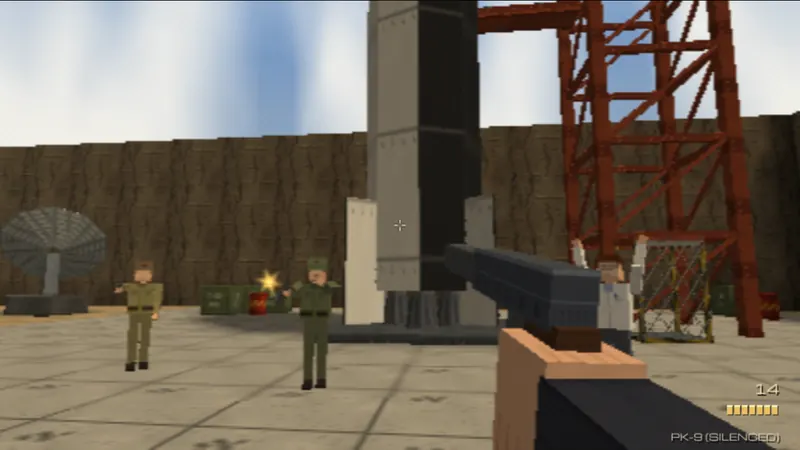
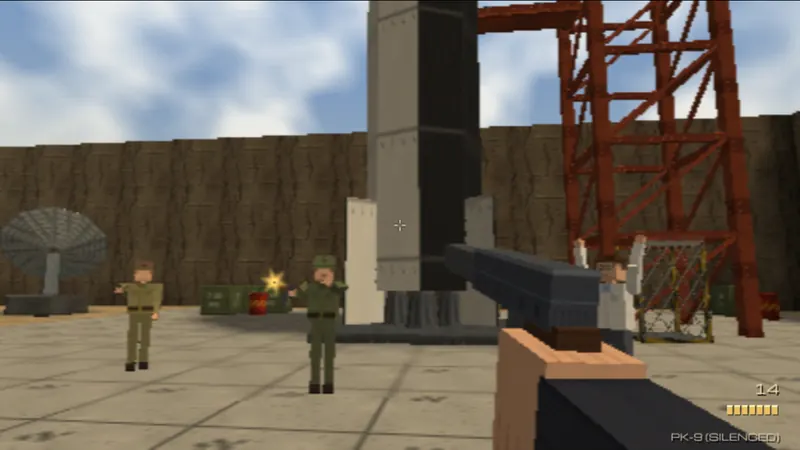
Apogee: projected cloud layer, wary guards re-engage, wider classic auto-aim
Guards in the alert state now fight when they see you again. Guards no longer
think during the mission intro. Kessler taunts you when he first sees you.

Claude-Session: https://claude.ai/code/session_01VK9dzxc8b6P7gghBf624HA

diff --git a/apogee/index.html b/apogee/index.html
@@ -398,11 +398,6 @@ function paintTextures() {
     for (let x = 5; x < 28; x += 4) p.vline(x, 4, 24, C(0xe0dcc8));
     p.bevel(2, 2, 28, 28, 1.3, 0.6);
   });
-  tex('lamp_cage', (p) => { // a bulkhead lamp for outdoor walls and the station
-    p.fill(C(0x404040)); p.disc(16, 16, 12, C(0xfff2c0)); p.disc(16, 16, 7, C(0xffffff));
-    for (let k = 4; k < 30; k += 6) { p.hline(4, k, 24, C(0x303030)); }
-    p.ring(16, 16, 12, 14, C(0x2a2a2a));
-  });
   // ---- outdoors (steppe launch site)
   tex('sand', (p) => { p.fill(C(0xa89470)).grain(0.35, 4).grain(0.2, 16, 9).speck(60, C(0x7c6a4c), 0.6).speck(30, C(0xd0bf98), 0.6); });
   tex('grass', (p) => {
@@ -553,7 +548,6 @@ function paintTextures() {
   });
   tex('floor_st', (p) => { p.fill(C(0x3c4046)).grain(0.12, 4); for (let y = 2; y < 32; y += 6) p.rect(0, y, 32, 2, C(0x52575e)); p.hline(0, 0, 32, C(0x26292c)); p.vline(0, 0, 32, C(0x26292c)); });
   tex('ceil_st', (p) => { p.fill(C(0xbab8b0)).grain(0.08, 4); p.rect(4, 4, 24, 24, C(0xcac8c0)); p.bevel(4, 4, 24, 24, 1.15, 0.75); p.rect(10, 14, 12, 4, C(0x707070)); });
-  tex('earthwin', (p) => { p.fill(C(0x101820)); }); // used for flat backing
   // ---- lunar base
   tex('moon_wall', (p) => {
     p.fill(C(0xb8ab92)).grain(0.12, 4);
@@ -2904,10 +2898,11 @@ function spot(a) {
     if (d < 9 && a.state !== 'surrender') { a.state = 'surrender'; a.action = 'surrender'; a.waitT = 1e9; }
     return;
   }
-  if (a.state === 'idle' || a.state === 'patrol' || a.state === 'search') {
-    const fresh = a.state !== 'search';
+  if (a.state === 'idle' || a.state === 'patrol' || a.state === 'search' || a.state === 'alert') {
+    const fresh = a.state === 'idle' || a.state === 'patrol';
     a.reactT = DIFF.reaction[G.diff] * (fresh ? 1 : 0.5);
     if (fresh) sfx('alert', a);
+    if (a.boss && !a.taunted) { a.taunted = true; hudMsg('KESSLER: "You are too late. HELIOS sees everything."', true); }
     if (a.alarmRunner && L.alarms.some((q) => !q.dead) && !(G.alarm && G.alarm.on)) a.state = 'alarm';
     else a.state = 'combat';
     // shout to friends nearby
@@ -3356,7 +3351,7 @@ function autoAimTarget(dir) {
     const dx = a.x - cp.x, dy = ty - cp.y, dz = a.z - cp.z, d = Math.hypot(dx, dz);
     if (d > 28 || d < 0.5) continue;
     const dyaw = Math.abs(angDiff(yaw0, Math.atan2(-dx, -dz))), dp = Math.abs(Math.atan2(dy, d) - pitch0);
-    const lim = Math.max(0.07, 0.6 / d);
+    const lim = Math.max(0.14, 1.0 / d);
     if (dyaw > lim || dp > 0.35) continue;
     if (!losClear(cp.x, cp.y, cp.z, a.x, ty, a.z)) continue;
     const s = dyaw * 3 + dp;
@@ -4288,9 +4283,16 @@ function buildSky(kind) {
     g.lit = (x, y) => { const t = clamp(y / 260, 0, 1); return mix3(hor, zen, Math.pow(t, 0.6)); };
     g.sphere(0, 0, 0, 400, 16, 10, () => TILE.white, 1, 1, true);
     add(g.mesh(MAT.sky), true, 0);
-    const c = new Geo(); c.tint = [1, 0.98, 0.94];
-    c.sphere(0, -40, 0, 380, 16, 5, () => TILE.clouds, 8, 2, true);
-    const cm = add(c.mesh(MAT.skyAlpha), true, 1); cm.userData.spin = 0.003;
+    // a flat cloud layer projected onto a dome: planar UVs foreshorten toward the horizon, where it fades into the haze
+    const c = new Geo(), R = 380, rings = 7, segs = 24;
+    c.lit = (x, y) => mix3(hor, [1, 0.99, 0.96], clamp((y - 8) / 110, 0, 1));
+    for (let j = 0; j < rings; j++) for (let i = 0; i < segs; i++) {
+      const e0 = j / rings * Math.PI / 2 * 0.95, e1 = (j + 1) / rings * Math.PI / 2 * 0.95, a0 = i / segs * TAU, a1 = (i + 1) / segs * TAU;
+      const P = (e, a) => [Math.cos(e) * Math.sin(a) * R, Math.sin(e) * R * 0.45, Math.cos(e) * Math.cos(a) * R];
+      const q = [P(e0, a0), P(e0, a1), P(e1, a1), P(e1, a0)];
+      c.quad(q[0], q[1], q[2], q[3], q.flatMap((v) => [v[0] / 140, v[2] / 140]), TILE.clouds, [0, -1, 0]);
+    }
+    const cm = add(c.mesh(MAT.skyAlpha), true, 1); cm.userData.spin = 0.004;
     // distant mountains: a ring of peaks fading into the haze
     const mg = new Geo(), R0 = 330, N = 36;
     mg.lit = (x, y) => mix3([0.42, 0.38, 0.33], hor, clamp(0.55 + y / 120, 0, 1));
@@ -4718,7 +4720,7 @@ function updateIntro(dt) {
 function step(dt) {
   G.time += dt;
   runTimers();
-  if (G.intro) { updateIntro(dt); updateActors(dt); updateDoors(dt); updateFx(dt); updateSky(dt); INPUT.pressed.clear(); return; }
+  if (G.intro) { updateIntro(dt); for (const a of G.actors) if (!a.dead) { a.t += dt; animateActor(a, dt); } updateDoors(dt); updateFx(dt); updateSky(dt); INPUT.pressed.clear(); return; }
   updatePlayer(dt);
   updateActors(dt);
   updateDoors(dt);
@@ -4873,7 +4875,7 @@ function installDebug() {
     },
     unlockAll() { G.unlockAll = true; return true; },
     audio() { initAudio(); const names = Object.keys(SFX); for (const n of names) sfx(n); for (const s of Object.keys(SONGS)) { stopMusic(); playMusic(s); scheduleMusic(); } playMusic('steppe'); return { ctx: !!AU.ctx, state: AU.ctx && AU.ctx.state, sfx: names.length, songs: Object.keys(SONGS).length }; },
-    f: { startIntro, applyVideoSettings, actorFire, muzzleFlashAt, G, L, OBJ, WEAPONS, MISSIONS, SET, SAVE, PROPS, TILE, camera, scene, renderer, rayWorld, findPath, damageActor, openDoor, explode, setState, toSelect, openWatch, closeWatch, showEnd, startMission, VIEW, UNI, MINES, PICKUPS, AU },
+    f: { autoAimTarget, playerFire, startIntro, applyVideoSettings, actorFire, muzzleFlashAt, G, L, OBJ, WEAPONS, MISSIONS, SET, SAVE, PROPS, TILE, camera, scene, renderer, rayWorld, findPath, damageActor, openDoor, explode, setState, toSelect, openWatch, closeWatch, showEnd, startMission, VIEW, UNI, MINES, PICKUPS, AU },
   };
   window.AP = AP;
 }

diff --git a/apogee/source/src/15_main.js b/apogee/source/src/15_main.js
@@ -24,7 +24,7 @@ function updateIntro(dt) {
 function step(dt) {
   G.time += dt;
   runTimers();
-  if (G.intro) { updateIntro(dt); updateActors(dt); updateDoors(dt); updateFx(dt); updateSky(dt); INPUT.pressed.clear(); return; }
+  if (G.intro) { updateIntro(dt); for (const a of G.actors) if (!a.dead) { a.t += dt; animateActor(a, dt); } updateDoors(dt); updateFx(dt); updateSky(dt); INPUT.pressed.clear(); return; }
   updatePlayer(dt);
   updateActors(dt);
   updateDoors(dt);
@@ -179,7 +179,7 @@ function installDebug() {
     },
     unlockAll() { G.unlockAll = true; return true; },
     audio() { initAudio(); const names = Object.keys(SFX); for (const n of names) sfx(n); for (const s of Object.keys(SONGS)) { stopMusic(); playMusic(s); scheduleMusic(); } playMusic('steppe'); return { ctx: !!AU.ctx, state: AU.ctx && AU.ctx.state, sfx: names.length, songs: Object.keys(SONGS).length }; },
-    f: { startIntro, applyVideoSettings, actorFire, muzzleFlashAt, G, L, OBJ, WEAPONS, MISSIONS, SET, SAVE, PROPS, TILE, camera, scene, renderer, rayWorld, findPath, damageActor, openDoor, explode, setState, toSelect, openWatch, closeWatch, showEnd, startMission, VIEW, UNI, MINES, PICKUPS, AU },
+    f: { autoAimTarget, playerFire, startIntro, applyVideoSettings, actorFire, muzzleFlashAt, G, L, OBJ, WEAPONS, MISSIONS, SET, SAVE, PROPS, TILE, camera, scene, renderer, rayWorld, findPath, damageActor, openDoor, explode, setState, toSelect, openWatch, closeWatch, showEnd, startMission, VIEW, UNI, MINES, PICKUPS, AU },
   };
   window.AP = AP;
 }

diff --git a/apogee/source/src/13_mission.js b/apogee/source/src/13_mission.js
@@ -120,9 +120,16 @@ function buildSky(kind) {
     g.lit = (x, y) => { const t = clamp(y / 260, 0, 1); return mix3(hor, zen, Math.pow(t, 0.6)); };
     g.sphere(0, 0, 0, 400, 16, 10, () => TILE.white, 1, 1, true);
     add(g.mesh(MAT.sky), true, 0);
-    const c = new Geo(); c.tint = [1, 0.98, 0.94];
-    c.sphere(0, -40, 0, 380, 16, 5, () => TILE.clouds, 8, 2, true);
-    const cm = add(c.mesh(MAT.skyAlpha), true, 1); cm.userData.spin = 0.003;
+    // a flat cloud layer projected onto a dome: planar UVs foreshorten toward the horizon, where it fades into the haze
+    const c = new Geo(), R = 380, rings = 7, segs = 24;
+    c.lit = (x, y) => mix3(hor, [1, 0.99, 0.96], clamp((y - 8) / 110, 0, 1));
+    for (let j = 0; j < rings; j++) for (let i = 0; i < segs; i++) {
+      const e0 = j / rings * Math.PI / 2 * 0.95, e1 = (j + 1) / rings * Math.PI / 2 * 0.95, a0 = i / segs * TAU, a1 = (i + 1) / segs * TAU;
+      const P = (e, a) => [Math.cos(e) * Math.sin(a) * R, Math.sin(e) * R * 0.45, Math.cos(e) * Math.cos(a) * R];
+      const q = [P(e0, a0), P(e0, a1), P(e1, a1), P(e1, a0)];
+      c.quad(q[0], q[1], q[2], q[3], q.flatMap((v) => [v[0] / 140, v[2] / 140]), TILE.clouds, [0, -1, 0]);
+    }
+    const cm = add(c.mesh(MAT.skyAlpha), true, 1); cm.userData.spin = 0.004;
     // distant mountains: a ring of peaks fading into the haze
     const mg = new Geo(), R0 = 330, N = 36;
     mg.lit = (x, y) => mix3([0.42, 0.38, 0.33], hor, clamp(0.55 + y / 120, 0, 1));

diff --git a/apogee/source/src/02_textures.js b/apogee/source/src/02_textures.js
@@ -128,11 +128,6 @@ function paintTextures() {
     for (let x = 5; x < 28; x += 4) p.vline(x, 4, 24, C(0xe0dcc8));
     p.bevel(2, 2, 28, 28, 1.3, 0.6);
   });
-  tex('lamp_cage', (p) => { // a bulkhead lamp for outdoor walls and the station
-    p.fill(C(0x404040)); p.disc(16, 16, 12, C(0xfff2c0)); p.disc(16, 16, 7, C(0xffffff));
-    for (let k = 4; k < 30; k += 6) { p.hline(4, k, 24, C(0x303030)); }
-    p.ring(16, 16, 12, 14, C(0x2a2a2a));
-  });
   // ---- outdoors (steppe launch site)
   tex('sand', (p) => { p.fill(C(0xa89470)).grain(0.35, 4).grain(0.2, 16, 9).speck(60, C(0x7c6a4c), 0.6).speck(30, C(0xd0bf98), 0.6); });
   tex('grass', (p) => {
@@ -283,7 +278,6 @@ function paintTextures() {
   });
   tex('floor_st', (p) => { p.fill(C(0x3c4046)).grain(0.12, 4); for (let y = 2; y < 32; y += 6) p.rect(0, y, 32, 2, C(0x52575e)); p.hline(0, 0, 32, C(0x26292c)); p.vline(0, 0, 32, C(0x26292c)); });
   tex('ceil_st', (p) => { p.fill(C(0xbab8b0)).grain(0.08, 4); p.rect(4, 4, 24, 24, C(0xcac8c0)); p.bevel(4, 4, 24, 24, 1.15, 0.75); p.rect(10, 14, 12, 4, C(0x707070)); });
-  tex('earthwin', (p) => { p.fill(C(0x101820)); }); // used for flat backing
   // ---- lunar base
   tex('moon_wall', (p) => {
     p.fill(C(0xb8ab92)).grain(0.12, 4);

diff --git a/apogee/source/test/classic.js b/apogee/source/test/classic.js
@@ -1,0 +1,20 @@
+// Classic controls: auto-aim pulls a near-miss onto a guard; aim mode moves the crosshair instead of the view.
+AP.freeze(); AP.god(); AP.peace();
+const G = AP.f.G, SET = AP.f.SET;
+SET.controls = 'classic';
+AP.tp(10, 33, 0); AP.sim(0.1);
+const p = G.player;
+const id = AP.spawn('soldier', 6, 27); const g = G.actors.find((a) => a.id === id);
+g.x = p.x + 0.9; g.z = p.z - 8; g.yaw = Math.PI; g.hp = 1e6; AP.sim(0.05);
+AP.look(0, 0);
+// auto-aim: aiming straight ahead, the guard is ~6 degrees to the right
+let before = G.stats.hits; AP.fire(1); out.autoAimHit = G.stats.hits > before;
+// aim mode: guard 30 degrees to the right, crosshair moved onto him without turning
+g.x = p.x + 4.6; g.z = p.z - 8; AP.sim(0.05); AP.look(0, 0);
+const v = new THREE.Vector3(g.x, g.y + 1.2, g.z).project(AP.f.camera);
+p.aimMode = true; p.aimX = v.x; p.aimY = v.y;
+before = G.stats.hits;
+G.player.fireT = 0; AP.f.G.player.switchT = 0;
+AP.f.playerFire(); out.aimModeHit = G.stats.hits > before; out.yawAfter = +p.yaw.toFixed(3);
+SET.controls = 'modern';
+return out;

diff --git a/apogee/source/src/09_ai.js b/apogee/source/src/09_ai.js
@@ -100,10 +100,11 @@ function spot(a) {
     if (d < 9 && a.state !== 'surrender') { a.state = 'surrender'; a.action = 'surrender'; a.waitT = 1e9; }
     return;
   }
-  if (a.state === 'idle' || a.state === 'patrol' || a.state === 'search') {
-    const fresh = a.state !== 'search';
+  if (a.state === 'idle' || a.state === 'patrol' || a.state === 'search' || a.state === 'alert') {
+    const fresh = a.state === 'idle' || a.state === 'patrol';
     a.reactT = DIFF.reaction[G.diff] * (fresh ? 1 : 0.5);
     if (fresh) sfx('alert', a);
+    if (a.boss && !a.taunted) { a.taunted = true; hudMsg('KESSLER: "You are too late. HELIOS sees everything."', true); }
     if (a.alarmRunner && L.alarms.some((q) => !q.dead) && !(G.alarm && G.alarm.on)) a.state = 'alarm';
     else a.state = 'combat';
     // shout to friends nearby

diff --git a/apogee/source/test/alert.js b/apogee/source/test/alert.js
@@ -1,0 +1,11 @@
+// A guard that has given up searching ('alert') must still fight when he sees you again.
+AP.freeze(); AP.god();
+const G = AP.f.G;
+AP.tp(10, 33, 0); AP.sim(0.1);
+const p = G.player;
+const id = AP.spawn('soldier', 10, 29); const g = G.actors.find((a) => a.id === id);
+g.state = 'alert'; g.yaw = Math.PI; g.homeYaw = Math.PI; g.home = { x: g.x, z: g.z };
+AP.sim(1.5);
+out.state = g.state; out.shots = g.fireT !== 0;
+if (g.state !== 'combat' && g.state !== 'alarm') throw new Error('alert guard ignored the player: ' + g.state);
+return out;

diff --git a/apogee/source/src/10_weapons.js b/apogee/source/src/10_weapons.js
@@ -85,7 +85,7 @@ function autoAimTarget(dir) {
     const dx = a.x - cp.x, dy = ty - cp.y, dz = a.z - cp.z, d = Math.hypot(dx, dz);
     if (d > 28 || d < 0.5) continue;
     const dyaw = Math.abs(angDiff(yaw0, Math.atan2(-dx, -dz))), dp = Math.abs(Math.atan2(dy, d) - pitch0);
-    const lim = Math.max(0.07, 0.6 / d);
+    const lim = Math.max(0.14, 1.0 / d);
     if (dyaw > lim || dp > 0.35) continue;
     if (!losClear(cp.x, cp.y, cp.z, a.x, ty, a.z)) continue;
     const s = dyaw * 3 + dp;

diff --git a/apogee/source/test/intro.js b/apogee/source/test/intro.js
@@ -1,4 +1,5 @@
-for (const m of [0, 1, 2]) { AP.start(m, 0); AP.freeze(); AP.peace(); AP.f.startIntro(); AP.sim(1.2); AP.render(); await wait(200); window['__i' + m] = 1; if (m === 0) break; }
+// The mission intro fly-in, mid-way, on each mission.
+AP.start(0, 0); AP.freeze(); AP.peace(); AP.f.startIntro(); AP.sim(1.2); AP.render();
 //--- shot intro_m1
 AP.start(1, 0); AP.freeze(); AP.peace(); AP.f.startIntro(); AP.sim(1.2); AP.render();
 //--- shot intro_m2

diff --git a/apogee/source/test/sky.js b/apogee/source/test/sky.js
@@ -1,0 +1,5 @@
+AP.freeze(); AP.god(); AP.peace();
+AP.tp(10, 33, 0.3); AP.look(0.3, 0.25); AP.sim(0.1); AP.render();
+//--- shot sky_m1
+AP.tp(30, 12, -0.8); AP.look(-0.8, 0.05); AP.sim(0.1); AP.render();
+//--- shot sky_m1b

diff --git a/apogee/AGENTS.md b/apogee/AGENTS.md
@@ -15,8 +15,8 @@ N64-style pipeline (320×240, 3-point filtering, vertex light, fog, dithered 16-
   `state()`, `reach()`, `audio()`, `render()`, and internals on `AP.f`.
 - **Tests (in `source/`):** `node test/smoke.mjs --no-start --steps test/reach.js` checks reachability in all missions; run
   it after any map edit. `test/play1.js` (default mission), `play2.js` (`--mission 1 --diff 2`) and `play3.js`
-  (`--mission 2 --diff 2`) complete each mission. `ai.js` checks combat and reinforcements, `anim.js` and `vm.js` take
-  screenshots of people and view models, `look1-3.js`, `views.js` and `ui.js` are screenshot tours, `audio.js` plays
+  (`--mission 2 --diff 2`) complete each mission. `ai.js` checks combat and reinforcements, `alert.js` that wary guards re-engage, `classic.js` auto-aim and aim mode, `anim.js` and `vm.js` take
+  screenshots of people and view models, `look1-3.js`, `views.js`, `sky.js`, `intro.js` and `ui.js` are screenshot tours, `audio.js` plays
   every sound and song. `node test/live.mjs` drives the menus, movement, the watch and both control schemes with real
   key presses.
 - **Gotchas:** gameplay delays use `later()` on the game clock, not `setTimeout`. Props register boxes in grid cells.
